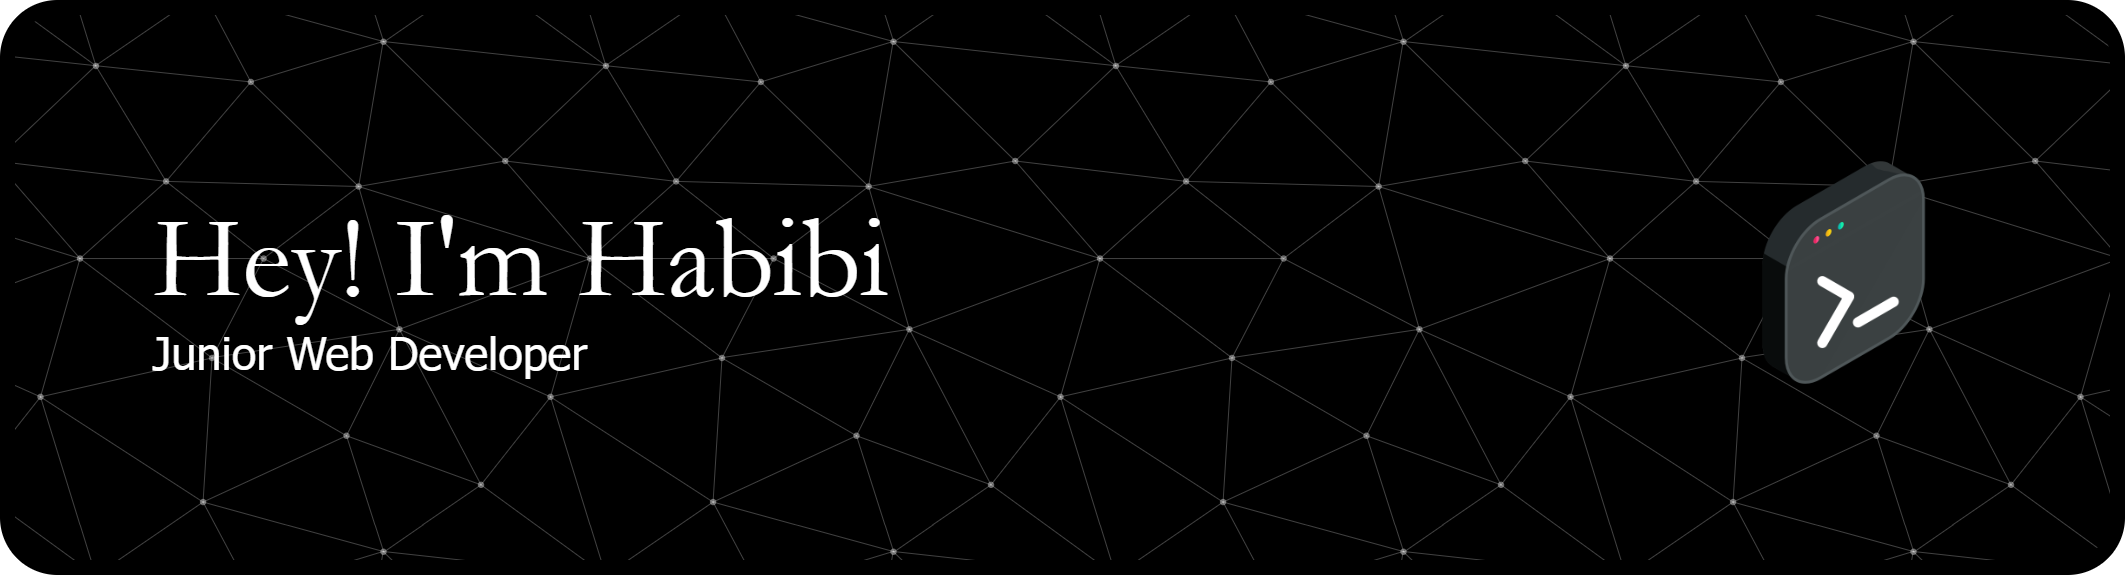
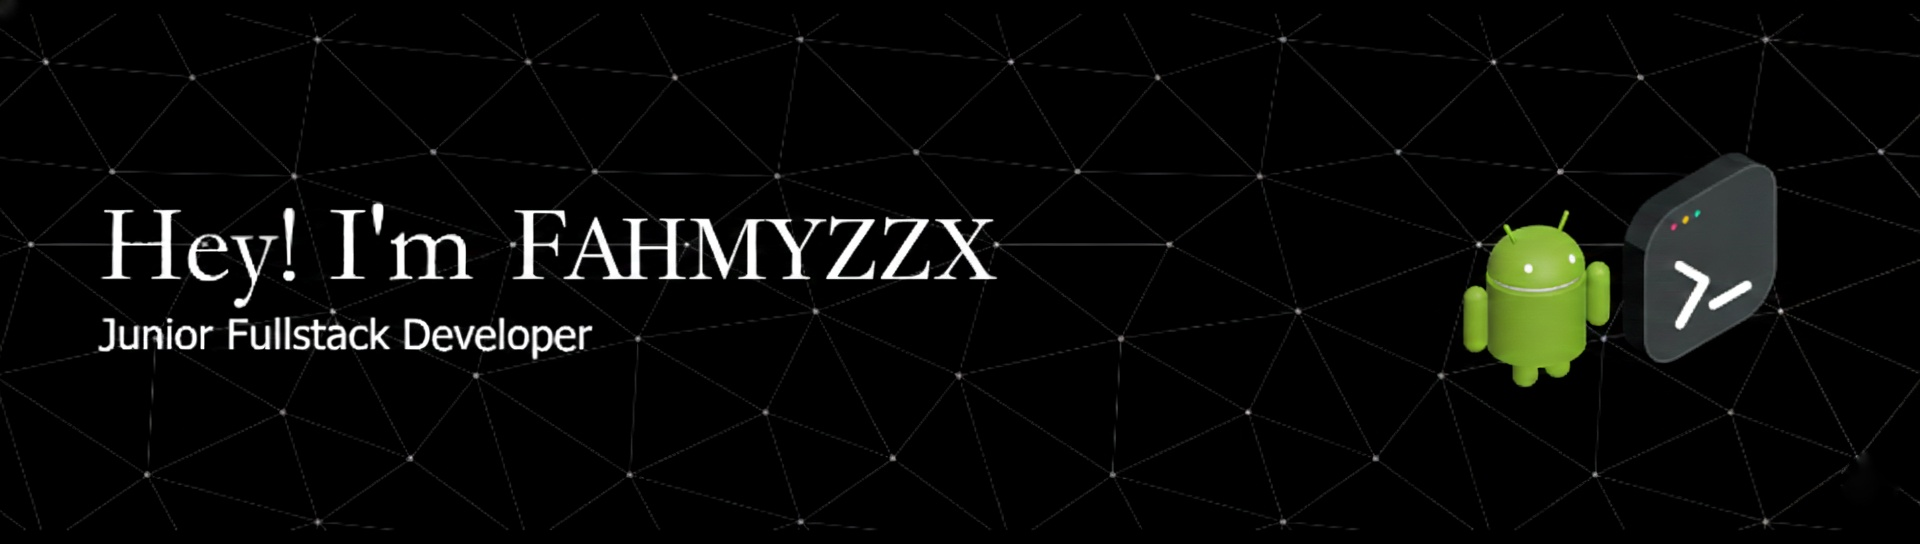
baru cuy

diff --git a/README.md b/README.md
@@ -1,26 +1,28 @@
-![Header](img/boy.png)
+<p align="center">
+  <img src="img/boy.png" alt="Header" style="border-radius: 15px;" width="100%" />
+</p>
 
 # Hey there 👋 Nice to see you
 
-###### Welcome to my page! I'm Habibi, a Junior Web Developer from Indonesia, currently living in Yogyakarta City, Indonesia.
+###### Welcome to my page! I'm Fahmyzzx, a Junior Fullstack Developer from Indonesia, currently living in Yogyakarta City, Indonesia.
 
 
 ## ⚙ Things I Code With
 
-[![My Skills](https://skillicons.dev/icons?i=html,css,js,php,laravel,tailwind,bootstrap,figma,git,postman,&)](https://skillicons.dev)
+[![My Skills](https://skillicons.dev/icons?i=androidstudio,cpp,cmake,java,gradle,htmx,kotlin,laravel,tailwind,linux,figma,git,postman,&)](https://skillicons.dev)
 
 
 ## 🪢 Let's Connect and Collaborate
 
 <div align="left">
-  <a href="https://www.linkedin.com/in/muhammadkhoerulhabibi/" target="_blank">
+  <a href="https://www.linkedin.com/in/n-a-fahmi-728334315?utm_source=share&utm_campaign=share_via&utm_content=profile&utm_medium=ios_app" target="_blank">
     <img src="https://raw.githubusercontent.com/maurodesouza/profile-readme-generator/master/src/assets/icons/social/linkedin/default.svg" width="52" height="40" alt="linkedin logo"  />
   </a>
-  <a href="https://www.instagram.com/mkhabibii_/" target="_blank">
+  <a href="https://www.instagram.com/n.a.fahmi" target="_blank">
     <img src="https://raw.githubusercontent.com/maurodesouza/profile-readme-generator/master/src/assets/icons/social/instagram/default.svg" width="52" height="40" alt="instagram logo"  />
   </a>
-  <a href="https://www.facebook.com/share/1FLqoCadLp/?mibextid=wwXIfr" target="_blank">
-    <img src="https://raw.githubusercontent.com/maurodesouza/profile-readme-generator/master/src/assets/icons/social/facebook/default.svg" width="52" height="40" alt="facebook logo"  />
+  <a href="http://fahmyzzx.my.id/" target="_blank">
+    <img src="https://img.icons8.com/3d-fluency/94/domain.png" width="52" height="40" alt="website logo"  />
   </a>
 </div>
 
@@ -33,7 +35,7 @@
 ###
 
 <div align="left">
-  <a href="https://open.spotify.com/user/31th7c5nx2tiujwo2ouubm5gabne">
+  <a href="https://open.spotify.com/user/314de4hz7tf27ngw2ajznmramctq">
     <img src="https://spotify-recently-played-readme.vercel.app/api?user=31th7c5nx2tiujwo2ouubm5gabne&count=5&unique=true" alt="Spotify recently played"  />
   </a>
 </div>
